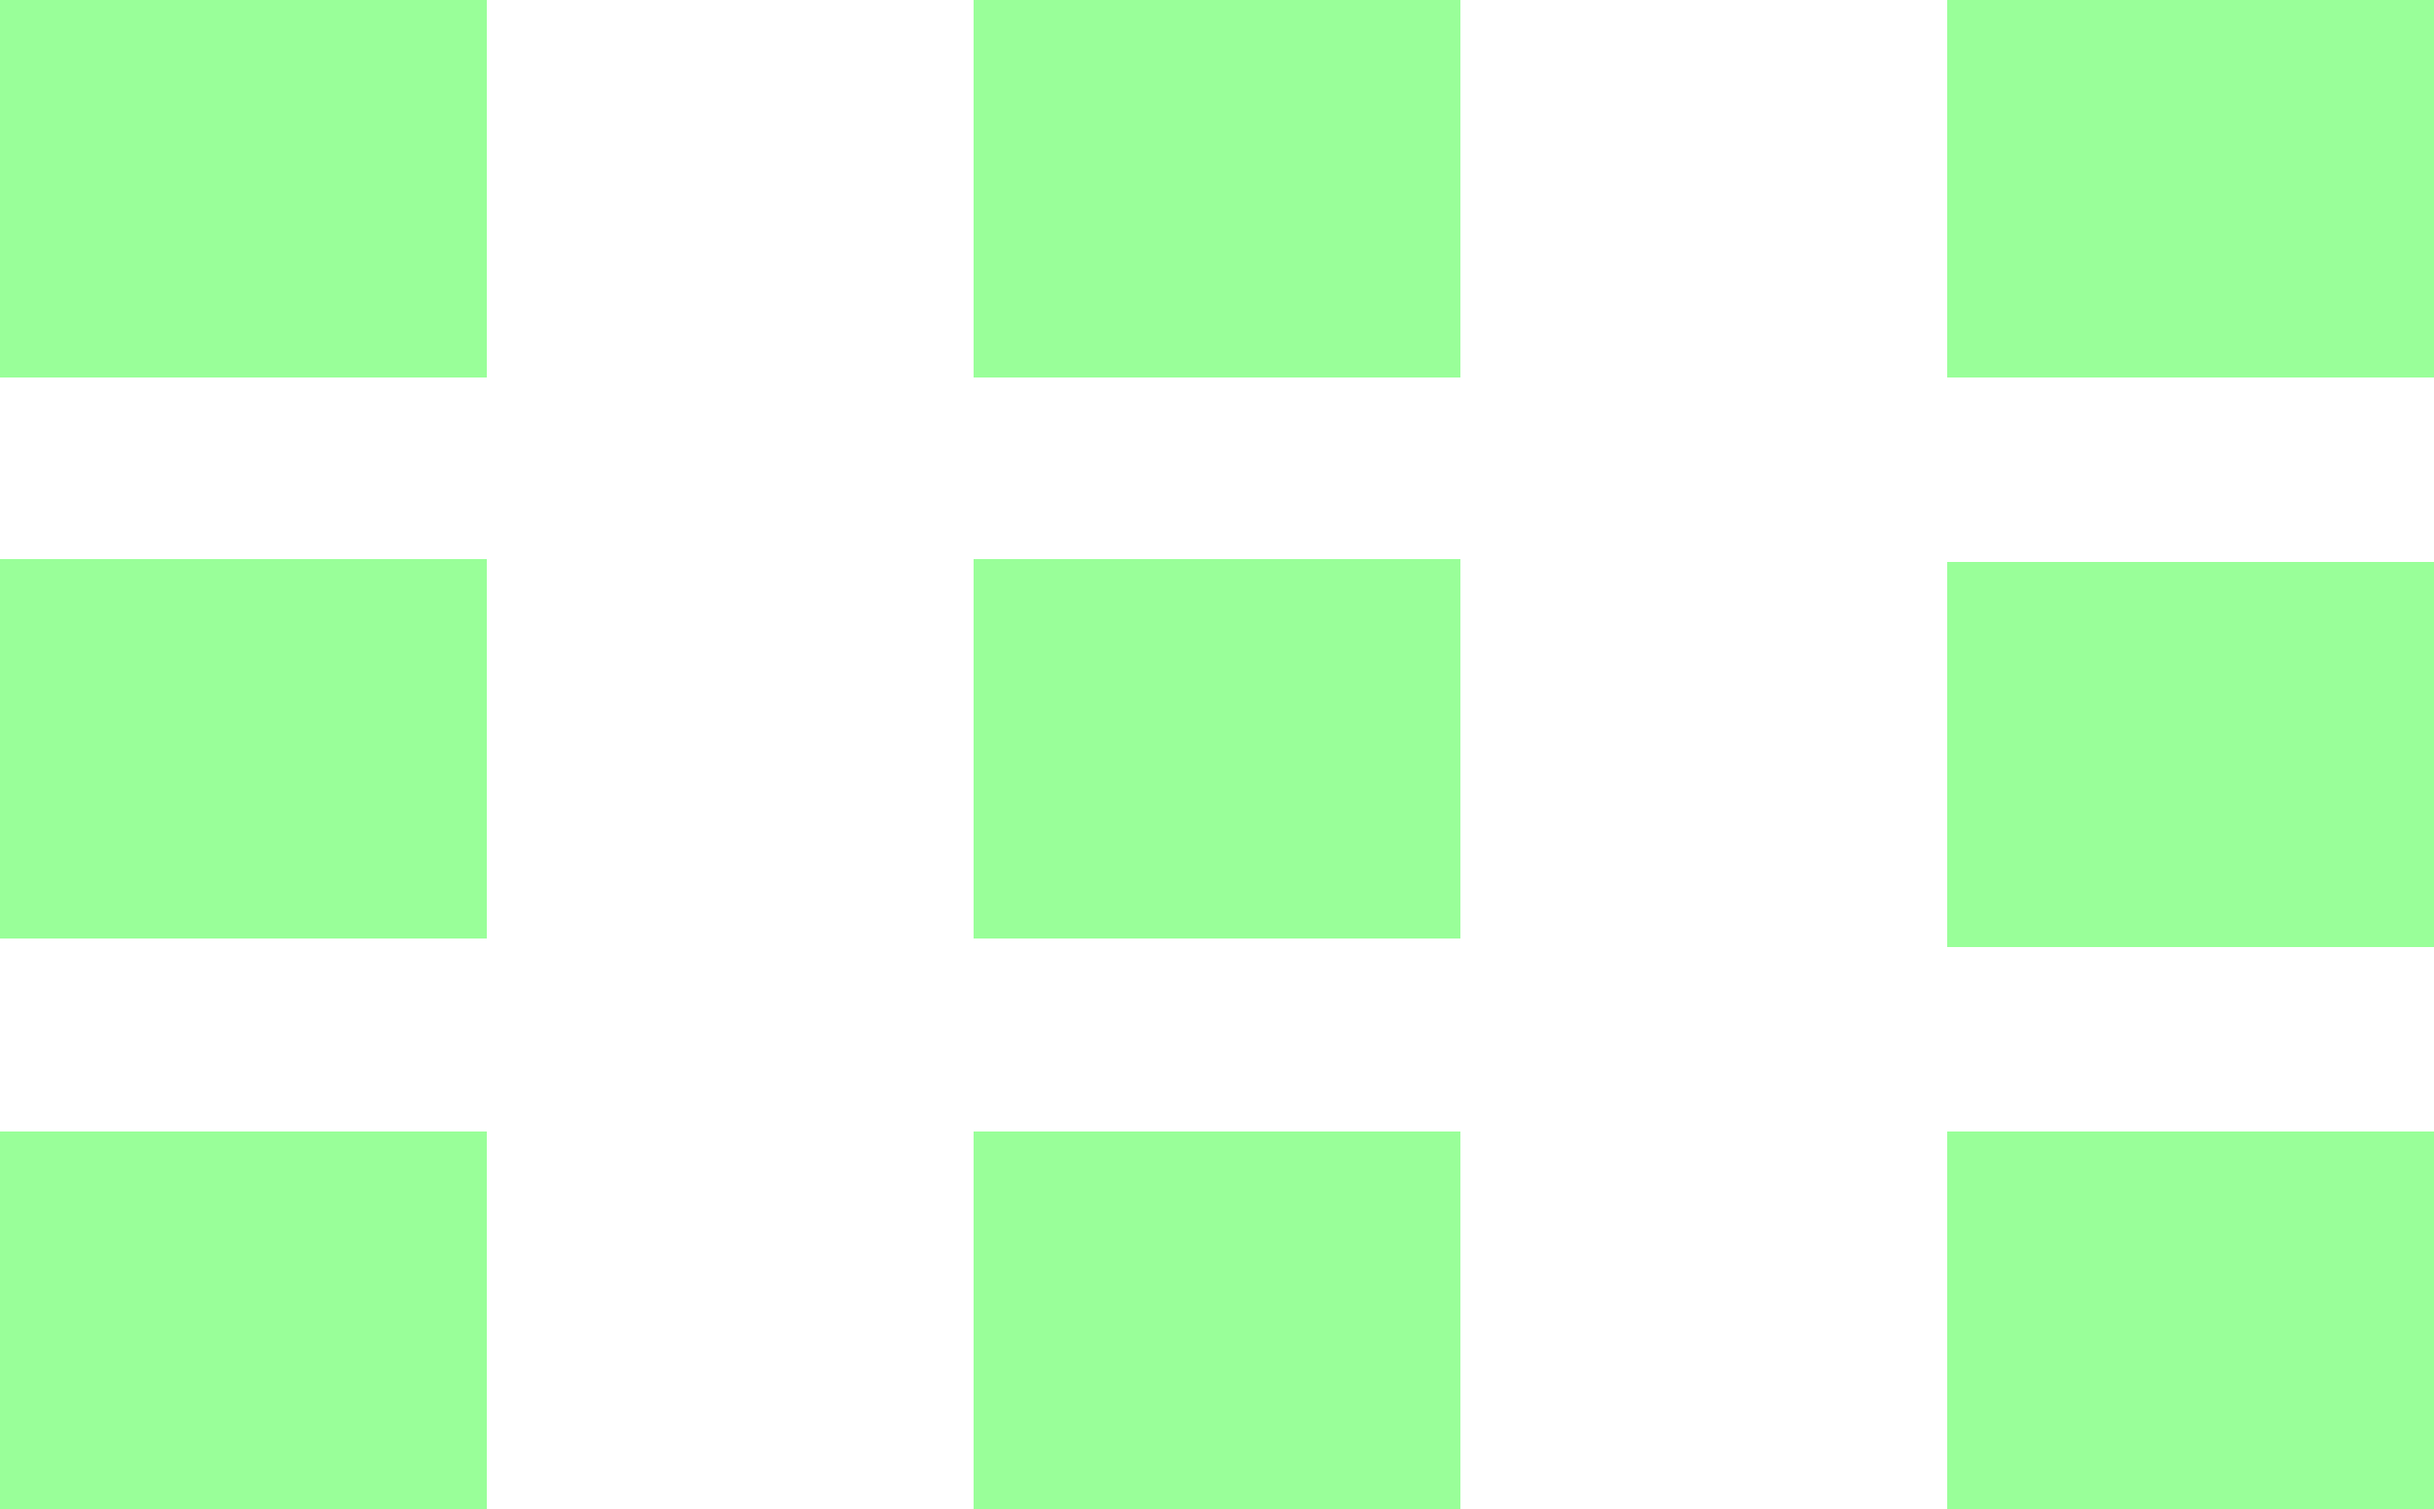
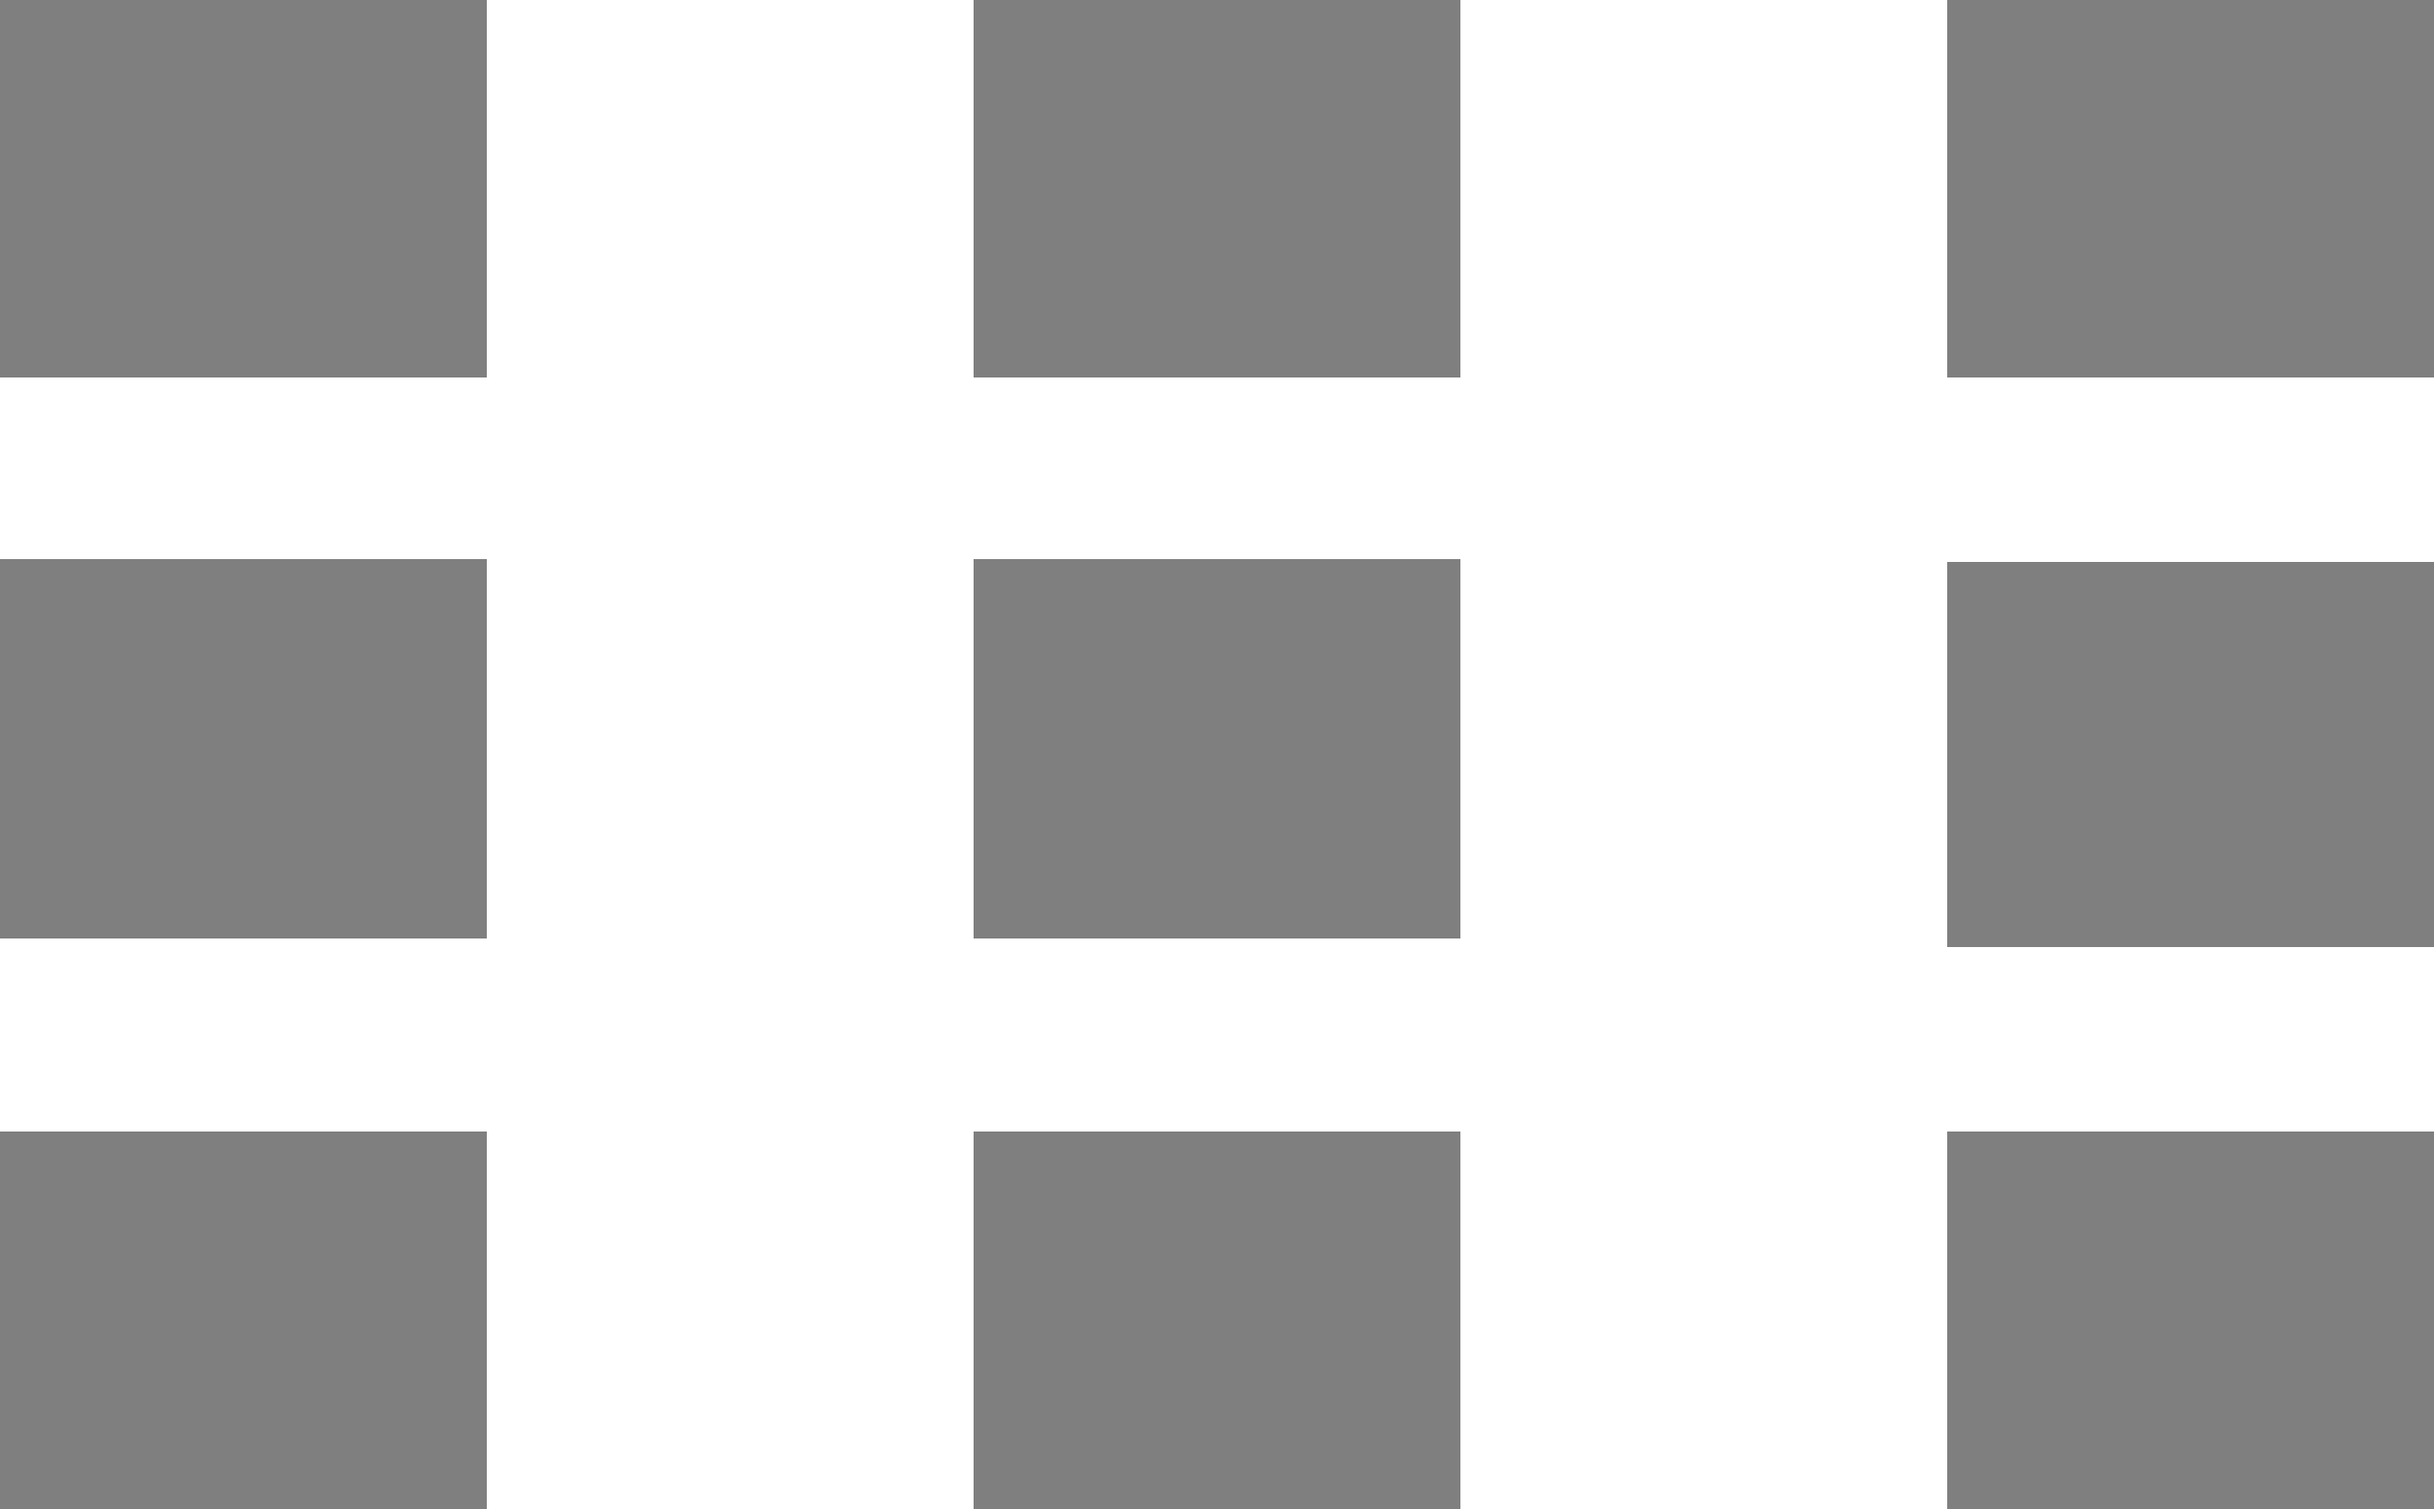
she works bitches

diff --git a/demo.html b/demo.html
@@ -13,22 +13,56 @@
         <script src="https://maxcdn.bootstrapcdn.com/bootstrap/3.3.7/js/bootstrap.min.js" integrity="sha384-Tc5IQib027qvyjSMfHjOMaLkfuWVxZxUPnCJA7l2mCWNIpG9mGCD8wGNIcPD7Txa" crossorigin="anonymous"></script>
     </HEAD>
     <BODY LANG="en-US" LINK="#0000ff" DIR="LTR">
-    <div id="calibrateImg"class="fullBodyImg">
-        <img src="http://i.imgur.com/zEn8TeP.png">
-        
+    <div class="fullBodyImg">
+        <img id="calibrateImg1" src="calibration-green(1).png" style="position: absolute; top: 0; left: 0;">
+        <img id="calibrateImg2" src="calibration-green(2).png" style="position: absolute; top: 0; left: 0;">
+        <img id="calibrateImg3" src="calibration-green(3).png" style="position: absolute; top: 0; left: 0;">
+        <img id="calibrateImg4" src="calibration-green(4).png" style="position: absolute; top: 0; left: 0;">
+        <img id="calibrateImg5" src="calibration-green(5).png" style="position: absolute; top: 0; left: 0;">
+        <img id="calibrateImg6" src="calibration-green(6).png" style="position: absolute; top: 0; left: 0;">
+        <img id="calibrateImg7" src="calibration-green(7).png" style="position: absolute; top: 0; left: 0;">
+        <img id="calibrateImg8" src="calibration-green(8).png" style="position: absolute; top: 0; left: 0;">
+        <img id="calibrateImg9" src="calibration-green(9).png" style="position: absolute; top: 0; left: 0;">
+        <img id="calibrateImg0" src="calibration.png" style="position: relative; top: 0; left: 0;">
     </div>
 
     <script src="build/webgazer.js"></script>
     <script>
 
-    function showhide() {
-        var img = document.getElementById('calibrateImg');
+    document.body.onmousedown = function() { 
+      ++mouseDown;
+    }
+
+    document.body.onmouseup = function() {
+      --mouseDown;
+    }
+
+    var domID = "calibrateImg";
+    function showhide(domID) {
+        console.log(domID);
+        var img = document.getElementById(domID);
         if (img.style.visibility === 'hidden') {
             // Currently hidden, make it visible
             img.style.visibility = "visible";
         } else {
             // Currently visible, make it hidden
             img.style.visibility = "hidden";
+        }
+    }
+
+    for(var i = 1; i < 10; i++){
+        var string = domID + i;
+        showhide(string);
+    }
+
+    function removeLayers() {
+        for(var i = 0; i < 10; i++){
+            var string = domID + i;
+            // console.log(string);
+            var img = document.getElementById(string);
+            if (img.style.visibility === 'visible'){
+                img.style.visibility = "hidden";
+            }
         }
     }
 
@@ -39,8 +73,11 @@
     // number of tries
     var tries = 0;
     var first = 0;
+    var calibrationComplete = 0;
     var sectorsVisited = [];
+    var calibratedSectors = [];
     var sectorCounters = [];
+    var sectorClicks = [];
     //how many ints have been added to the guess
     var attemptCodeCounter = 0;
     var addedCounter = 0;
@@ -50,13 +87,16 @@
     var secretCodeCounter = 3;
     //hard coded for now
     var secretCode = [1, 6, 7];
+    var mouseDown = 0;
 
     var initiateCalibration = function() {
-        alert("Look at mouse and click in each of the 9 boxes to calibrate");
+        alert("Drag your cursor and click three times " + 
+            "over each of the 9 grey boxes." + 
+            " When that box turns green, it has been calibrated.");
     }
 
     var compareCodes = function(secretCode, sectorsVisited) {
-        for(var i = secretCode.length; i--;) {
+        for(i = secretCode.length; i--;) {
           if(secretCode[i] !== sectorsVisited[i]){
             tries++;
             if(tries > 5){
@@ -86,6 +126,18 @@
         }
     }
 
+    var checkIfCalibrationComplete = function(calibratedSectors) {
+        // console.log("final cali entered");
+        for(i = 0; i < 9; i++){
+            if(calibratedSectors[i] == 0){
+                return false;
+            }
+        }
+        alert("Calibration complete. Please enter passcode.");
+        removeLayers();
+        return true;
+    }
+
     var trackSector = function(sector) {
         // reset every value except for the one we're currently one
         for (i = 0; i < 9; i++) {
@@ -97,14 +149,29 @@
         // increment the counter
         sectorCounters[sector - 1]++;
         // if it has reached the threshold, add it officially
-        if (sectorCounters[sector - 1] > 100) {
+        if (calibrationComplete == 0 && mouseDown == 1) {
+           sectorClicks[sector - 1]++;
+           // console.log("click");
+           if(sectorClicks[sector - 1] == 3){
+             removeLayers();
+             string = domID + sector;
+             showhide(string);
+             console.log(string + " string unhidden");
+             calibratedSectors[sector-1]++;
+             if(checkIfCalibrationComplete(calibratedSectors) == true){
+                calibrationComplete = 1;
+             }
+           }
+           // mouseDown--;
+        }
+        else if (sectorCounters[sector - 1] > 100) {
             console.log("HERE");
             addToArray(sector);
         }
     }
     
     var classifer = function(x, y){
-        console.log(x + " " + y);
+        // console.log(x + " " + y);
         // leftmost column
        if(x < (w/5)){
          if(y < 3*h/8){
@@ -117,7 +184,7 @@
        }
 
        // middle column
-       if (3*w/5 < x && x < 4*w/5) {
+       if (2*w/5 < x && x < 4*w/5) {
         if(y < 3*h/8){
            trackSector(2);
          } else if(y < (3*h/4) && y > 3*h/8){
@@ -144,13 +211,15 @@ window.onload = function() {
     webgazer.setRegression('ridge') /* currently must set regression and tracker */
         .setTracker('clmtrackr')
         .setGazeListener(function(data, clock) {
-        
-         if(clock > 5000 && data != null){
+         if(calibrationComplete == 0 && data != null){
             if(first == 0){
-                showhide();
                 first = 1;
+                showhide("calibrateImg0");
             }
             //webgazer.clearGazeListener();
+            classifer(data.x, data.y);
+         }
+         else if(calibrationComplete == 1 && data != null){
             classifer(data.x, data.y);
          }
          //   console.log(data); /* data is an object containing an x and y key which are the x and y prediction coordinates (no bounds limiting) */
@@ -194,6 +263,8 @@ window.onload = function() {
         function initializeArray() {
             for (i = 0; i < 9; i++) {
                 sectorCounters.push(0);
+                sectorClicks.push(0);
+                calibratedSectors.push(0);
             }
         }
 
